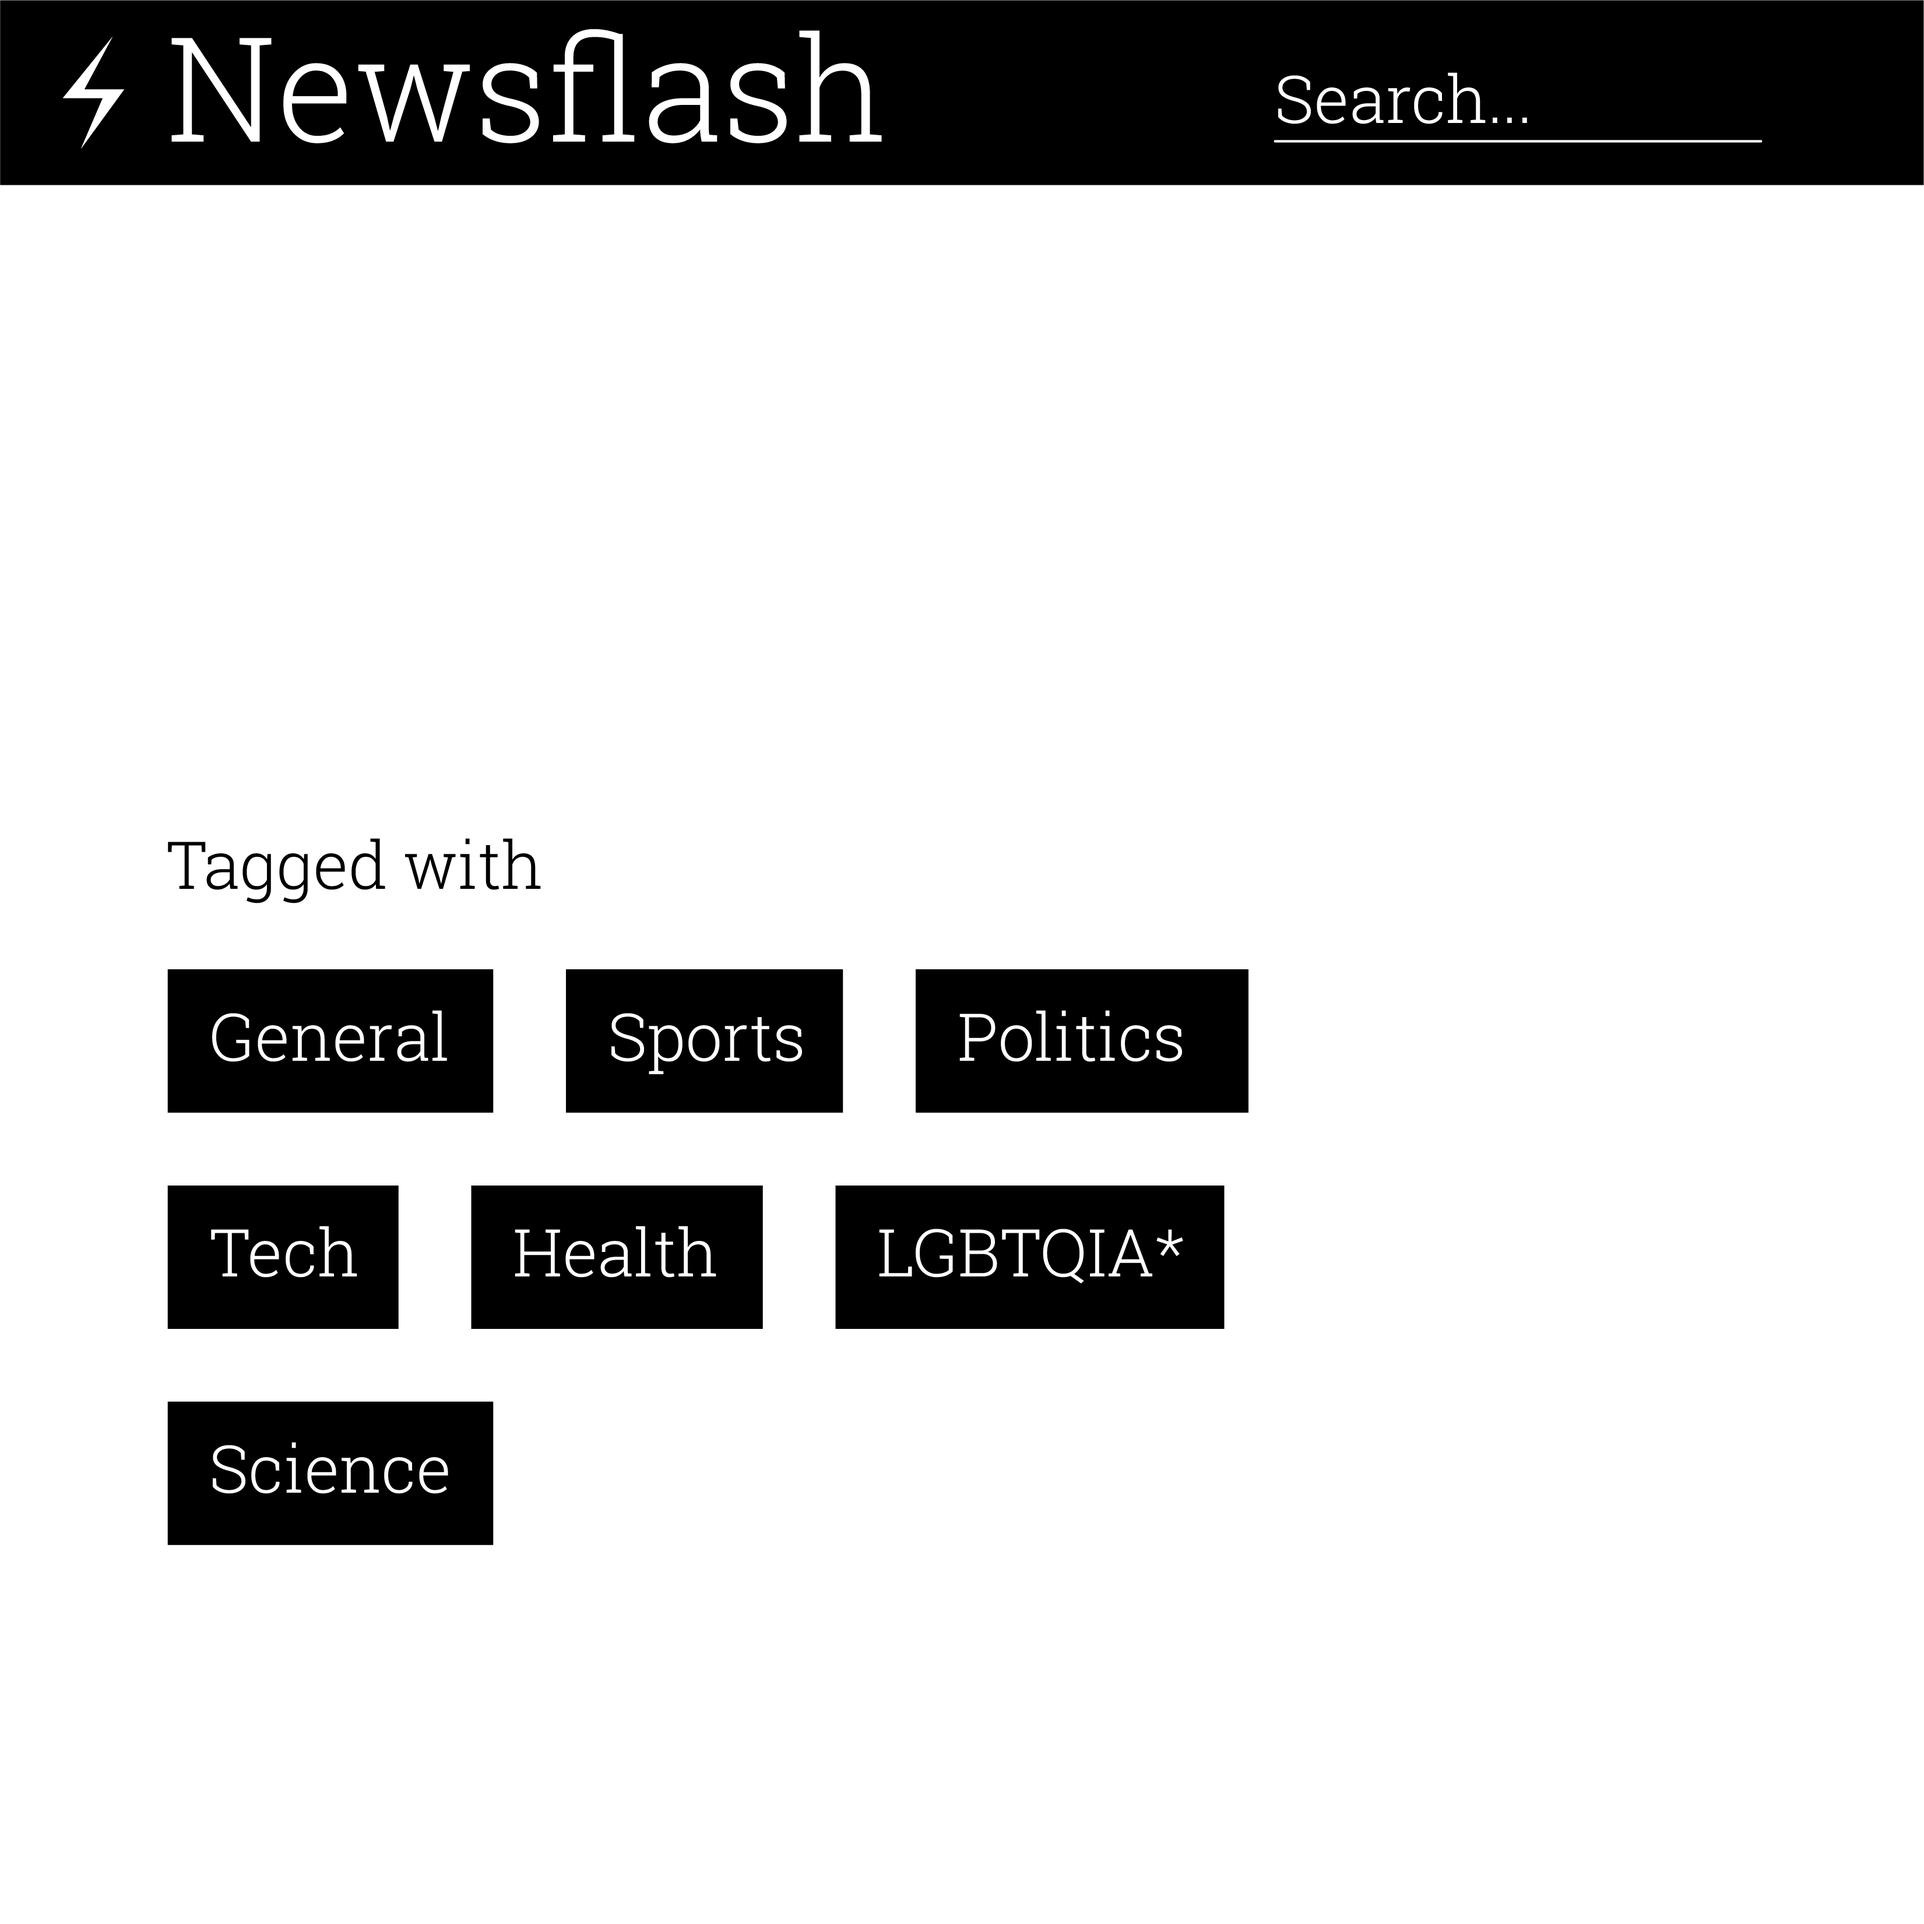
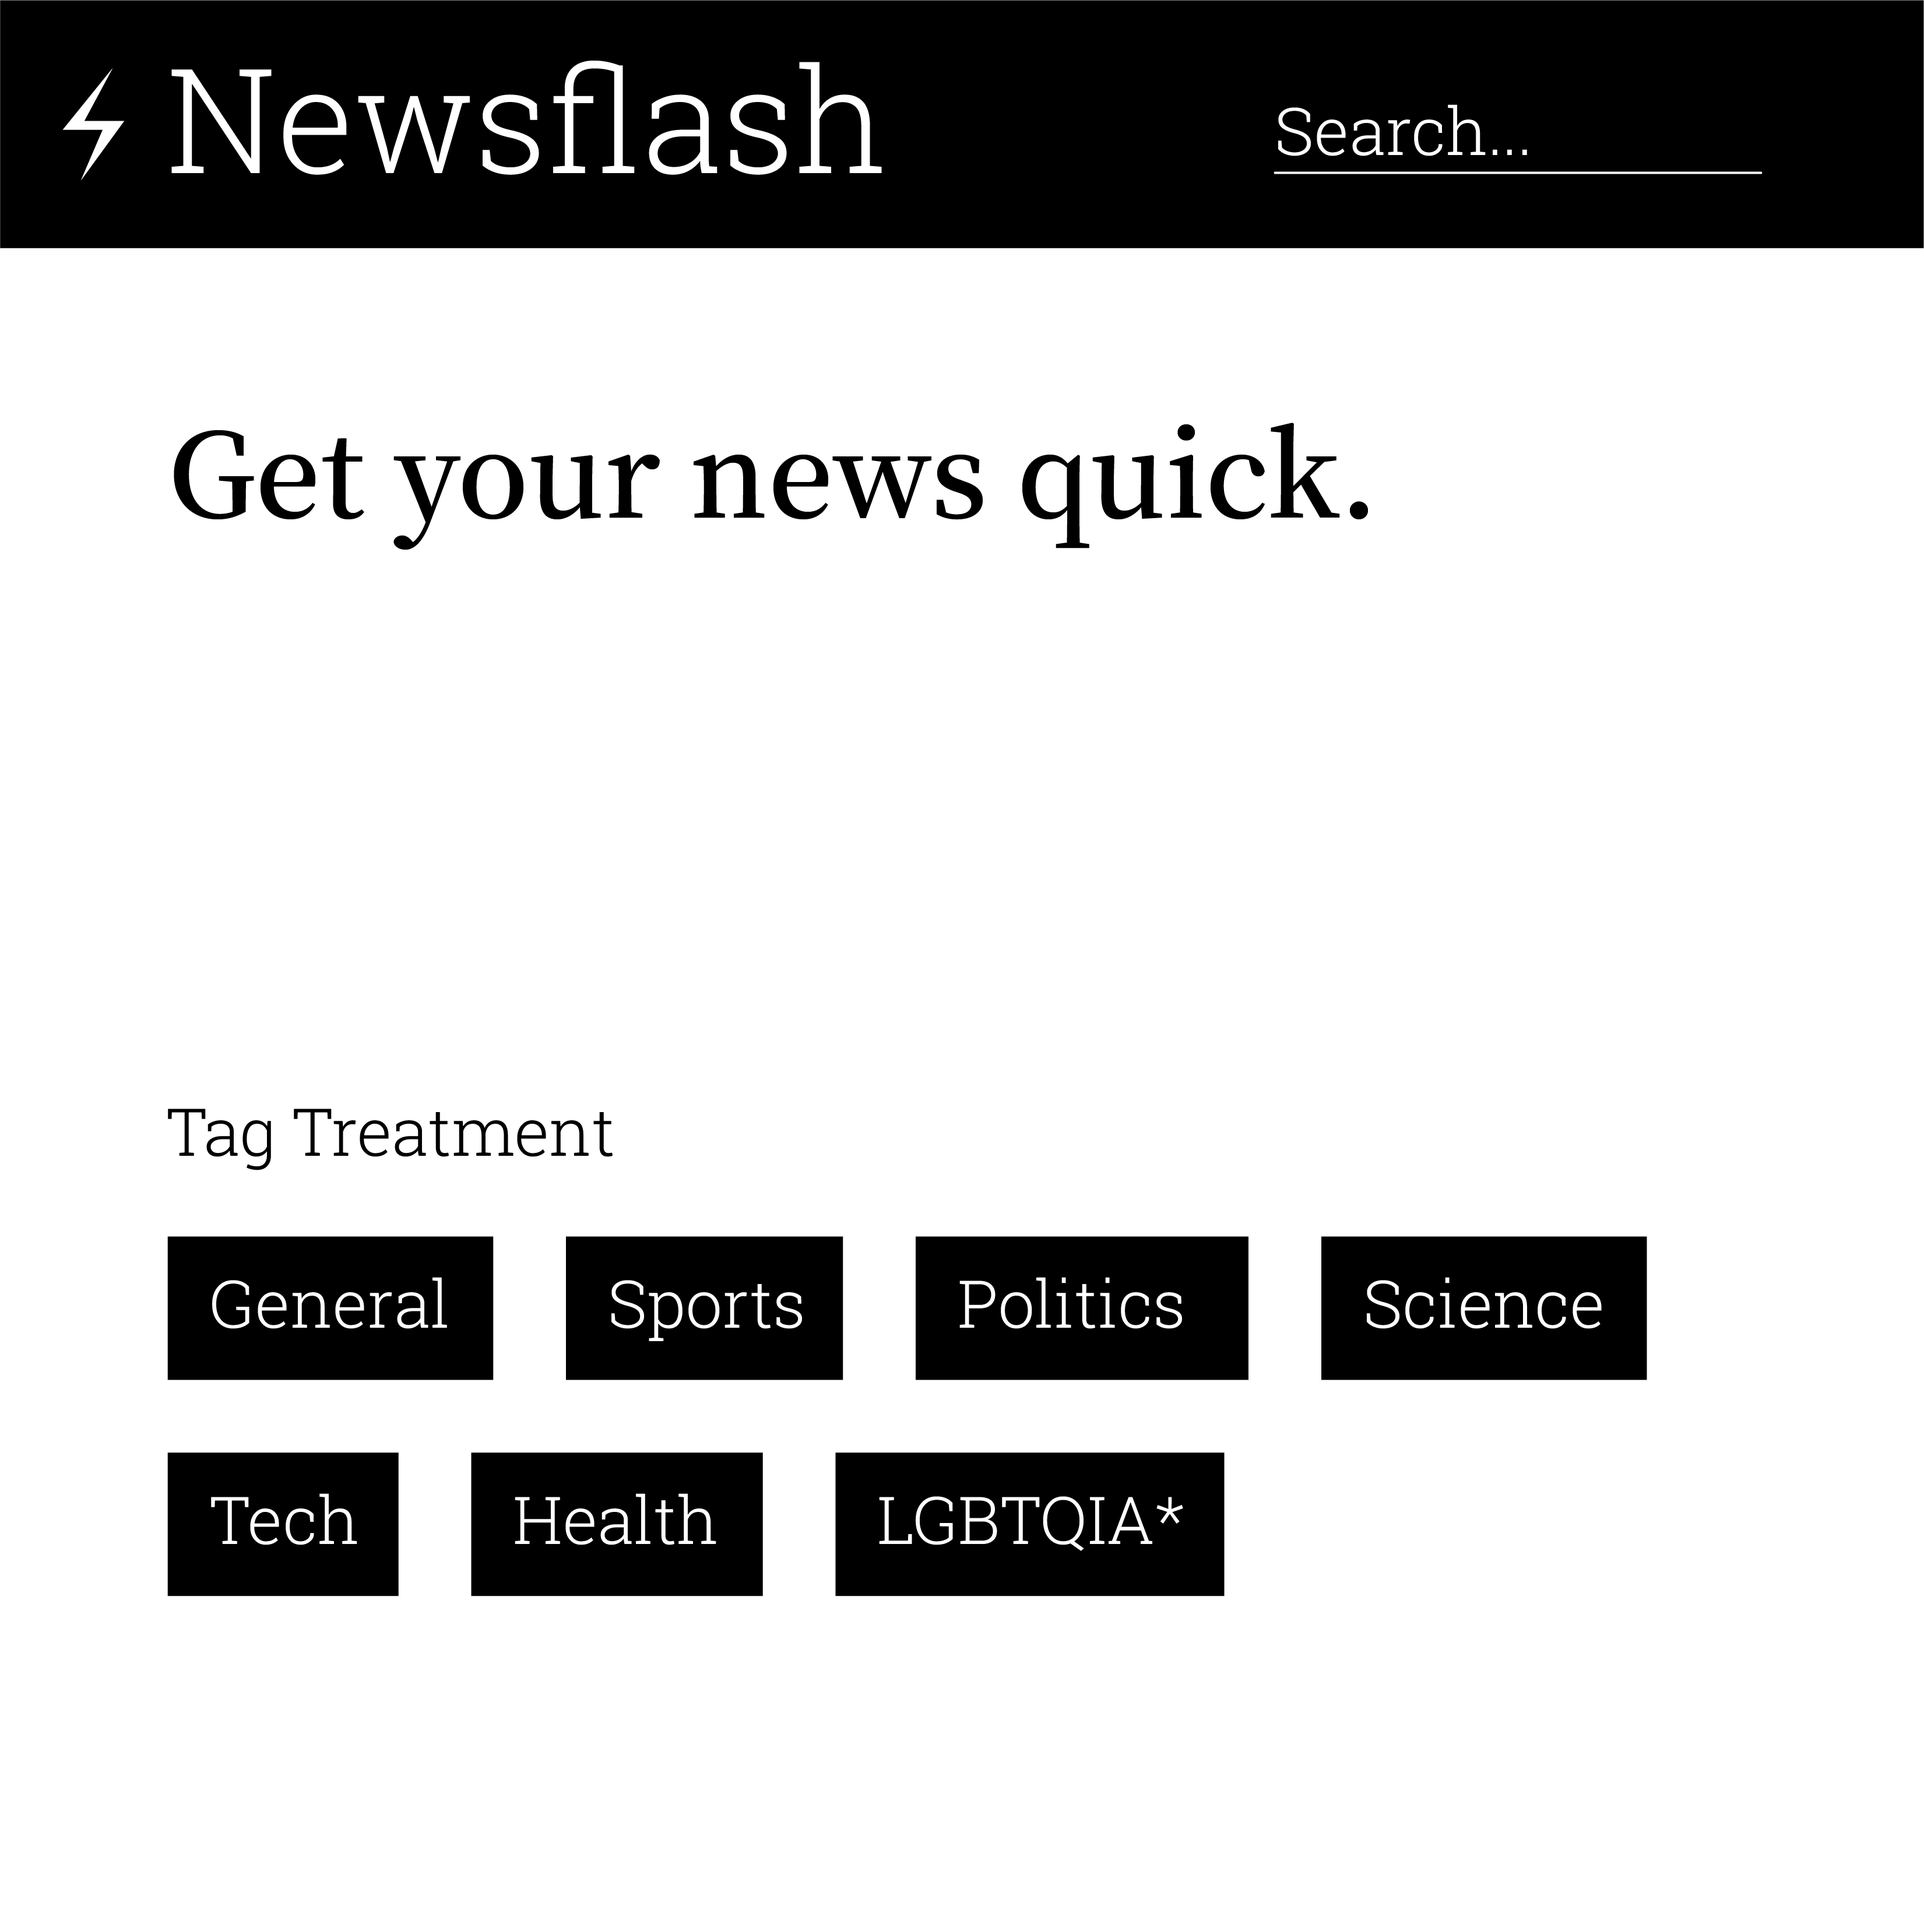
Add files via upload

diff --git a/news-story-template/news-site-branding/styles.css b/news-story-template/news-site-branding/styles.css
@@ -1,6 +1,7 @@
 body {
 	/*margin-top:calc(300px)*/;
 	margin: 1em 1em 1em 1em;
+	margin:auto;
 	margin-top:0em;
 	max-width:85%;
 	font-size:1.2em;
@@ -12,5 +13,7 @@ body {
 
 
 img {
-	width: 60%;
+	display: inline-block;
+	padding-right:5%;
+	width: 40%;
 }

diff --git a/news-story-template/news-site-branding/index.html b/news-story-template/news-site-branding/index.html
@@ -16,15 +16,12 @@
 
 <body>
 
-
-	<h1>Newsflash Branding</h1>
-
-	<img src="branding_Artboard 1.png">
+	<h1>Branding</h1>
+	<br><br>
 
 	<img src="branding_Artboard 4.png">
 
-
-
+	<img src="branding_Artboard 5.png">
 
 </body>
 
